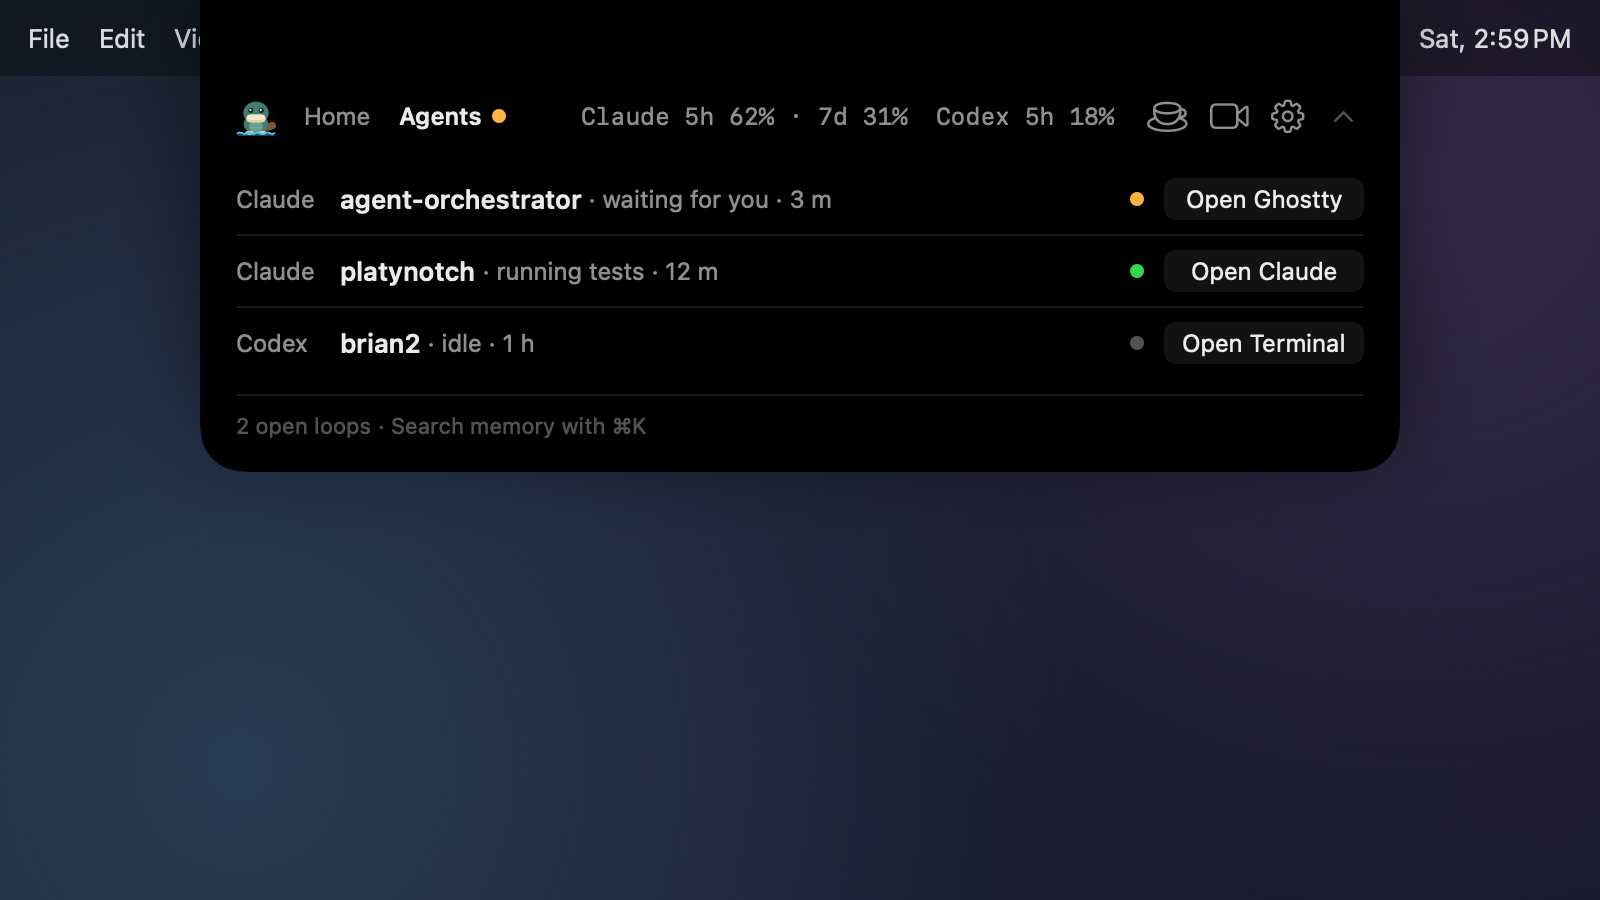
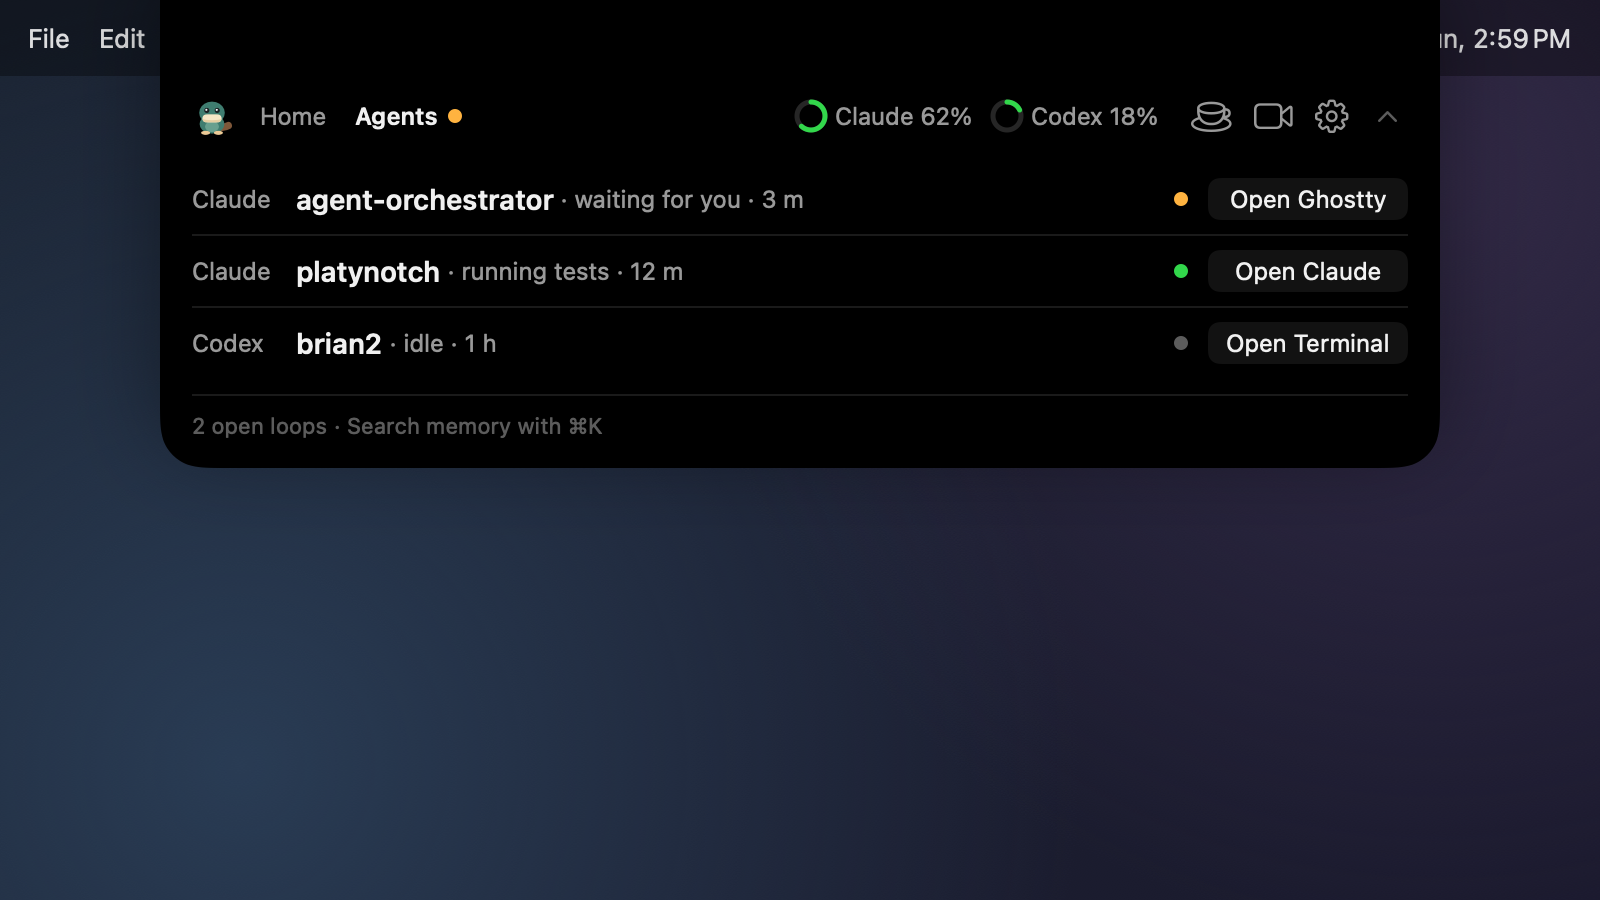
test(mac): lint the Island rules; regenerate the showcase
Colour comes from state or content (the art and sky files never use a state colour);
the sky's colours, the two big numbers and the count blue stay where they belong; no
tile grids in the panel; the dock's live circle is the one tinted well. The showcase
is the six Island scenes (wireframes A-F), 1600 x 900 at 2x; the README hero is
home-sunny.

Changed region(s): [[0.0938, 0.0, 0.9375, 0.5289], [0.375, 0.0933, 0.8438, 0.1556]]

diff --git a/apps/mac/Sources/PlatyNotchUI/Smoke/ShowcaseRenders.swift b/apps/mac/Sources/PlatyNotchUI/Smoke/ShowcaseRenders.swift
@@ -2,17 +2,17 @@ import AppKit
 import PlatyNotchKit
 import SwiftUI
 
-/// `--render-showcase <dir>`: the five Quiet Notch scenes (wireframes A–C, E), each the open
-/// panel as it really looks on a 14-inch MacBook Pro (600 pt wide, always black, the band
-/// level with the camera housing), hanging from a drawn menu bar and notch over a calm
-/// gradient wallpaper drawn here in code (no third-party image, no Apple wallpaper), 16:9 at
-/// 2x, on a dark and a light desktop: Home with music, Home with live chips, Agents, an
-/// approval above the Agents rows, and the command line. Agents show their names (renders
-/// never carry an app's icon). The same inert models as the theme renders: nothing is
-/// read, played or saved.
+/// `--render-showcase <dir>`: the six Island scenes (wireframes A–F), each the open panel as
+/// it really looks on a 14-inch MacBook Pro (always black, the band level with the camera
+/// housing), hanging from a drawn menu bar and notch over a calm gradient wallpaper drawn
+/// here in code (no third-party image, no Apple wallpaper), 16:9, forced to 2x, on a dark
+/// and a light desktop: Home on a sunny afternoon, Home on a rainy night, the Timer tool,
+/// the search, Agents with its usage rings, and the closed pill's three leads. Agents show
+/// their names (renders never carry an app's icon). The same inert models as the theme
+/// renders: nothing is read, played or saved.
 @MainActor
 enum ShowcaseRenders {
-    static let scenes = ["home-music", "home-live", "agents", "approval", "command-line"]
+    static let scenes = ["home-sunny", "home-rain-night", "tool-timer", "search", "agents", "pill"]
     /// The scenes' clock: today at 14:59, so a regeneration shows the same times.
     static var clock: Date {
         Calendar.current.date(bySettingHour: 14, minute: 59, second: 0, of: Date()) ?? Date()
@@ -35,11 +35,15 @@ enum ShowcaseRenders {
         for scheme in [ColorScheme.dark, .light] {
             for name in scenes {
                 let file = dir.appendingPathComponent("\(name)-\(scheme == .dark ? "dark" : "light").png")
-                let s = scene(name)
-                let picture = ShowcaseDesktop(scheme: scheme, time: s.time) {
-                    panel(s.content, height: s.height)
+                let data: Data?
+                if name == "pill" {
+                    data = render(ShowcaseDesktop(scheme: scheme, time: clock) { pills() }, scheme: scheme)
+                } else {
+                    let s = scene(name)
+                    data = render(ShowcaseDesktop(scheme: scheme, time: s.time) { panel(s.content, height: s.height) },
+                                  scheme: scheme)
                 }
-                guard let png = render(picture, scheme: scheme) else {
+                guard let png = data else {
                     return .failure(ThemeRenders.RenderError(message: "\(name) did not render"))
                 }
                 do { try png.write(to: file) } catch {
@@ -65,76 +69,57 @@ enum ShowcaseRenders {
         let now = clock
         var rig: HomeRenders.Rig
         var route = PanelRoute(destination: .home)
-        var header: HeaderServices?
         var command: String?
+        var time: Date = now
         var panelNow: Date? = now
         switch name {
-        case "home-music":
-            rig = homeRig(at: now, live: false)
-        case "home-live":
-            rig = homeRig(at: now, live: true)
-            // Two hours of keep awake started 40 minutes ago: "1:20" left (wireframe B).
-            header = HomeRenders.headerServices(keepAwake: true,
-                                                battery: BatteryState(percent: 64, charging: true, pluggedIn: true,
-                                                                      minutesRemaining: nil),
-                                                startedAt: now.addingTimeInterval(-40 * 60))
+        case "home-rain-night":
+            // Wireframe B: nothing playing (Resume), a rainy night, a free evening.
+            time = Calendar.current.date(bySettingHour: 21, minute: 12, second: 0, of: now) ?? now
+            rig = HomeRenders.island(playing: false, sky: HomeRenders.reading(61, day: false, 17, at: time, rainy: true),
+                                     now: time, next: [])
+        case "tool-timer":
+            // Wireframe C: the Timer tool with a tea and a laundry timer running (real clock).
+            rig = ToolRenders.runningTimers()
+            route = PanelRoute(destination: .home, tool: PanelTools.timer)
+            panelNow = nil   // the timers run on the real clock
+        case "search":
+            // Wireframe D: the full-panel search, nothing typed yet: every tool and command.
+            rig = HomeRenders.homeRest(at: now)
+            command = ""
         case "agents":
+            // Wireframe E: three sessions in three apps, the usage rings, two open loops.
             rig = agentsRig(at: now)
             route = PanelRoute(destination: .agents)
-        case "approval":
-            // The card's countdown runs on the real clock (as in the app), so the approval is
-            // 20 s old in real time; the rows' ages count from the real clock too.
-            rig = agentsRig(at: Date())
-            try? rig.store.apply(Envelope.make(.approvalAdded, bashApproval()))
-            route = PanelRoute(destination: .agents)
-            panelNow = nil
         default:
-            rig = homeRig(at: now, live: false)
-            command = "timer 10m tea"
+            // Wireframe A: Green Light playing, sunny in Bengaluru, a meeting in 45 minutes.
+            rig = HomeRenders.homeRest(at: now)
         }
-        rig.store.apply(.connected)
-        let content = HomeRenders.panel(rig, route: route, command: command, now: panelNow, header: header)
-        let measured: CGFloat = NSHostingView(rootView: content).fittingSize.height
-        return Scene(content: content, height: measured, time: now)
-    }
-
-    /// Home at `now`: Weightless playing with drawn artwork, the weather in the header, and Up
-    /// next as in wireframe A (a meeting in 45 minutes, a timed reminder, one overdue). `live`
-    /// adds wireframe B's chips: focus, a tea timer and the shelf.
-    static func homeRig(at now: Date, live: Bool) -> HomeRenders.Rig {
-        var rig = HomeRenders.builtIns(meeting: false, at: now)
         rig.mood = .idle
-        rig.today.nowPlaying.debugApply(NowPlayingInfo(bundleIdentifier: "com.apple.Music", title: "Weightless",
-                                                       artist: "Marconi Union", isPlaying: true, artwork: artwork(),
-                                                       elapsed: 161, duration: 473, rate: 0, timestamp: now), now: now)
-        let meeting = CalendarMeeting(id: "design", title: "Design review", start: now.addingTimeInterval(45 * 60),
-                                      end: now.addingTimeInterval(75 * 60))
-        rig.today.calendar.setForTesting(access: .granted, meetings: [meeting])
-        let cal = Calendar.current
-        let five = cal.date(bySettingHour: 17, minute: 0, second: 0, of: now) ?? now
-        let yesterday = cal.date(byAdding: .day, value: -1, to: now) ?? now
-        let reminders = [ReminderItem(id: "priya", title: "Call Priya", due: five, hasTime: true),
-                         ReminderItem(id: "invoice", title: "Send invoice", due: yesterday, hasTime: true)]
-        (rig.registry.widget(RemindersWidget.widgetID) as? RemindersWidget)?.reminders
-            .setForTesting(access: .granted, items: reminders)
-        (rig.registry.widget(WeatherWidget.widgetID) as? WeatherWidget)?.showForRendering(
-            place: GeoPlace(id: 1, name: "Lisbon", latitude: 38.72, longitude: -9.14),
-            weather: WeatherNow(temperatureC: 14, code: 0, isDay: true, time: now, hourly: []))
-        if live {
-            rig.today.focus.start(minutes: 25, now: now.addingTimeInterval(-(6 * 60 + 18)))
-            if let time = rig.registry.widget(TimeWidget.widgetID) as? TimeWidget {
-                _ = time.startTimer(duration: 190, label: "Tea")
-            }
-            (rig.registry.widget(ShelfWidget.widgetID) as? ShelfWidget)?.showForRendering([
-                ShelfItem(kind: .text("Release checklist"), addedAt: now),
-                ShelfItem(kind: .text("Meeting notes"), addedAt: now),
-                ShelfItem(kind: .url(URL(string: "https://example.com/report")!), addedAt: now),
-            ])
-        }
-        return rig
+        rig.store.apply(.connected)
+        let content = HomeRenders.panel(rig, route: route, command: command, now: panelNow ?? Date(),
+                                        full: command != nil)
+        let measured: CGFloat = NSHostingView(rootView: content).fittingSize.height
+        return Scene(content: content, height: measured, time: time)
     }
 
-    /// Wireframe C: three sessions in three apps, usage in the header, two open loops.
+    /// Wireframe F: the closed pill's three leads, music at the notch and the timer and
+    /// needs-you leads below it, each as it sits under the camera housing.
+    static func pills() -> some View {
+        let leads: [PillLead] = [.music, .timer(remaining: "18:42"), .needsYou(sessionID: "s1")]
+        // Below the menu bar, each pill drawn as it sits beside a 14-inch MacBook Pro's housing.
+        return VStack(spacing: 32) {
+            ForEach(Array(leads.enumerated()), id: \.offset) { _, lead in
+                PillRenders.lead(lead, width: .standard, greyNotch: false)
+                    .clipShape(Theme.panelShape(hasNotch: false))
+                    .shadow(color: .black.opacity(0.35), radius: 12, y: 6)
+            }
+        }
+        .padding(.top, HomeRenders.layout.anchor.height + 56)
+        .environment(\.agentIcons, .namesOnly)
+    }
+
+    /// Wireframe E: three sessions in three apps, usage rings in the header, two open loops.
     static func agentsRig(at now: Date) -> HomeRenders.Rig {
         let s = AgentsRenders.session
         let start = now.addingTimeInterval(-12 * 60)
@@ -149,31 +134,6 @@ enum ShowcaseRenders {
         done.updatedAt = now.addingTimeInterval(-62 * 60)
         let rig = AgentsRenders.rig([tests, ask, done])
         return rig
-    }
-
-    /// A short Bash command (wireframe C's card).
-    static func bashApproval() -> Approval {
-        let created = Date().addingTimeInterval(-20)
-        let command = "rm -rf ./build && npm test -- --grep \"panel\""
-        return Approval(id: "showcase-bash", sessionKey: "tests", agent: "claude-code", agentName: "Claude Code",
-                        project: "platynotch", tool: "Bash", summary: command,
-                        input: RawJSON(.object(["command": .string(command)])), createdAt: created,
-                        expiresAt: created.addingTimeInterval(300))
-    }
-
-    /// Original artwork drawn in code: two soft fields, nothing from a real cover.
-    static func artwork() -> Data? {
-        let size = NSSize(width: 108, height: 108)
-        let image = NSImage(size: size, flipped: false) { rect in
-            NSGradient(colors: [NSColor(srgbRed: 0.23, green: 0.29, blue: 0.39, alpha: 1),
-                                NSColor(srgbRed: 0.64, green: 0.44, blue: 0.48, alpha: 1)])?
-                .draw(in: rect, angle: -45)
-            NSColor(white: 1, alpha: 0.12).setFill()
-            NSBezierPath(ovalIn: CGRect(x: 52, y: 14, width: 64, height: 64)).fill()
-            return true
-        }
-        guard let tiff = image.tiffRepresentation, let rep = NSBitmapImageRep(data: tiff) else { return nil }
-        return rep.representation(using: .png, properties: [:])
     }
 
     /// The open panel around `content` (`height` tall), as `PanelRootView` draws it: always

diff --git a/apps/mac/Tests/PlatyNotchUITests/DesignLintTests.swift b/apps/mac/Tests/PlatyNotchUITests/DesignLintTests.swift
@@ -154,6 +154,14 @@ final class DesignLintTests: DefaultsTestCase {
         for (path, reason) in Self.tintedWellAllowlist {
             XCTAssertFalse(reason.trimmingCharacters(in: .whitespaces).isEmpty, "\(path) needs a reason")
         }
+        // Island: the dock's live circle is the one tinted well, and only at `HomeMetrics.liveFill`.
+        XCTAssertEqual(Array(Self.tintedWellAllowlist.keys), ["Dock/DockButton.swift"])
+        let dockFills = lines.filter { $0.path == "Dock/DockButton.swift" && tinted.firstMatch(
+            in: $0.text, range: NSRange(location: 0, length: ($0.text as NSString).length)) != nil }
+        XCTAssertFalse(dockFills.isEmpty, "the lint must see the dock's live fill")
+        for line in dockFills {
+            XCTAssertTrue(line.text.contains("HomeMetrics.liveFill"), "\(line.path):\(line.number): \(line.text)")
+        }
         for (i, line) in lines.enumerated() where Self.isPanel(line.path) && Self.tintedWellAllowlist[line.path] == nil {
             let ns = line.text as NSString
             guard tinted.firstMatch(in: line.text, range: NSRange(location: 0, length: ns.length)) != nil else { continue }
@@ -190,9 +198,17 @@ final class DesignLintTests: DefaultsTestCase {
         "Views/PillLeadView.swift": "the music lead's bars in the album's colour (Island spec 7)",
     ]
 
-    /// Colour only for state (spec 5.3): in panel views, no named system colours, no
-    /// `Color(red:)` or `Color(hue:)`, and `.tint` only white or a `DS`/`Theme` colour.
-    func testColourOnlyForState() throws {
+    /// Island (spec 10): the files whose colour comes from content (the album art, the sky).
+    static let contentColourFiles = ["Home/NowPlayingCard.swift", "Home/WeatherSkyView.swift", "Views/PillLeadView.swift"]
+
+    /// Colour only for state or content (spec 5.3, Island spec 10): in panel views, no named
+    /// system colours, no `Color(red:)` or `Color(hue:)`, and `.tint` only white or a
+    /// `DS`/`Theme` colour; the content files and the old exceptions, each with a reason.
+    func testColourOnlyForStateOrContent() throws {
+        for path in Self.contentColourFiles {
+            XCTAssertFalse((Self.colourAllowlist[path] ?? "").trimmingCharacters(in: .whitespaces).isEmpty,
+                           "\(path): a content colour file needs its allowlist reason")
+        }
         let named = #"(blue|indigo|purple|pink|mint|cyan|teal|yellow|orange|red|green|brown)"#
         let regex = try NSRegularExpression(pattern:
             #"Color\."# + named + #"\b|[\s(:?,]\."# + named + #"\b(?!\s*[:(=])|(?<![A-Za-z])Color\((red|hue):"#
@@ -209,6 +225,69 @@ final class DesignLintTests: DefaultsTestCase {
         }
         XCTAssertTrue(found.isEmpty, "colour that is not a state (use white ink or DS.color(tone)):\n"
                       + found.joined(separator: "\n"))
+    }
+
+    /// Content colour stays content: the art and sky files never use a state colour.
+    func testContentFilesUseNoStateColour() throws {
+        var found: [String] = []
+        for line in try Self.sourceLines() where Self.contentColourFiles.contains(line.path) {
+            if ["DS.color(", "DS.dynamicColor(", "StateTone"].contains(where: { line.text.contains($0) }) {
+                found.append("\(line.path):\(line.number): \(line.text.trimmingCharacters(in: .whitespaces))")
+            }
+        }
+        XCTAssertGreaterThan(try Self.sourceLines().filter { Self.contentColourFiles.contains($0.path) }.count, 50)
+        XCTAssertTrue(found.isEmpty, "a state colour in a content colour file:\n" + found.joined(separator: "\n"))
+    }
+
+    /// Lines (outside comments) that mention `needle`, in files `allowed` does not accept.
+    static func uses(_ needle: String, allowed: (String) -> Bool) throws -> [String] {
+        try sourceLines().filter { $0.text.contains(needle) && !allowed($0.path) }
+            .map { "\($0.path):\($0.number): \($0.text.trimmingCharacters(in: .whitespaces))" }
+    }
+
+    /// The sky's colours belong to the Today card's sky (and the renders).
+    func testSkyColoursOnlyInTheSky() throws {
+        let found = try Self.uses("WeatherSky") { path in
+            path == "Home/WeatherSkyView.swift" || path == "Home/TodayCard.swift" || path.hasPrefix("Smoke/")
+        }
+        XCTAssertTrue(found.isEmpty, "WeatherSky outside the sky:\n" + found.joined(separator: "\n"))
+    }
+
+    /// The two big numbers (Island spec 9): the temperature on Today, the Timer's time.
+    func testBigNumbersOnlyWhereAllowed() throws {
+        var found = try Self.uses("TypeScale.temperature") { $0 == "Home/TodayCard.swift" }
+        found += try Self.uses("TypeScale.timer") { $0 == "Tools/TimerTool.swift" }
+        XCTAssertTrue(found.isEmpty, "a big number outside Today's temperature and the Timer:\n"
+                      + found.joined(separator: "\n"))
+    }
+
+    /// Tile grids that may stay in the panel, each with its reason.
+    static let tileGridAllowlist: [String: String] = [
+        "Launch/Views/LaunchTile.swift": "the user's pinned sites as their own favicons",
+        "Files/FileActionsWidget.swift": "two columns of labelled action buttons",
+    ]
+
+    /// No tile grids in the panel (Island spec 1: the dock and rows replace them); the game
+    /// boards draw their own.
+    func testNoTileGrids() throws {
+        for (path, reason) in Self.tileGridAllowlist {
+            XCTAssertFalse(reason.trimmingCharacters(in: .whitespaces).isEmpty, "\(path) needs a reason")
+        }
+        var found: [String] = []
+        for needle in ["LazyVGrid", "LazyHGrid"] {
+            found += try Self.uses(needle) { path in
+                !Self.isPanel(path) || path.hasPrefix("Games/Views/") || Self.tileGridAllowlist[path] != nil
+            }
+        }
+        XCTAssertTrue(found.isEmpty, "a tile grid in the panel:\n" + found.joined(separator: "\n"))
+    }
+
+    /// The count blue is for counts: the dock's badges, the week strip's today, the search's
+    /// hits (Island spec 9).
+    func testCountBlueOnlyForCounts() throws {
+        let allowed: Set<String> = ["Dock/DockButton.swift", "Home/WeekStrip.swift", "Home/SearchView.swift"]
+        let found = try Self.uses("DS.countBlue") { allowed.contains($0) }
+        XCTAssertTrue(found.isEmpty, "DS.countBlue outside counts:\n" + found.joined(separator: "\n"))
     }
 
     /// Text styles and font sizes above 15 pt that a literal `.system(size:)` scan misses.

diff --git a/apps/mac/Tests/PlatyNotchUITests/ShowcaseRendersTests.swift b/apps/mac/Tests/PlatyNotchUITests/ShowcaseRendersTests.swift
@@ -4,14 +4,14 @@ import XCTest
 
 @MainActor
 final class ShowcaseRendersTests: XCTestCase {
-    /// Five scenes (Quiet Notch wireframes A–C, E), on a dark and a light desktop (the panel
-    /// is black on both), each 16:9 at 2x: 800 x 450 points, 1600 x 900 pixels.
-    func testShowcaseWritesTen() throws {
-        XCTAssertEqual(ShowcaseRenders.scenes, ["home-music", "home-live", "agents", "approval", "command-line"])
+    /// Six scenes (Island wireframes A–F), on a dark and a light desktop (the panel is black on
+    /// both), each 16:9 at 2x (forced, whatever the screen): 800 x 450 points, 1600 x 900 pixels.
+    func testShowcaseWritesTwelve() throws {
+        XCTAssertEqual(ShowcaseRenders.scenes, ["home-sunny", "home-rain-night", "tool-timer", "search", "agents", "pill"])
         let dir = FileManager.default.temporaryDirectory.appendingPathComponent("pn-showcase-\(getpid())")
         defer { try? FileManager.default.removeItem(at: dir) }
         switch ShowcaseRenders.write(to: dir) {
-        case .success(let n): XCTAssertEqual(n, 10)
+        case .success(let n): XCTAssertEqual(n, 12)
         case .failure(let e): return XCTFail(e.message)
         }
         let names = try FileManager.default.contentsOfDirectory(atPath: dir.path).filter { $0.hasSuffix(".png") }.sorted()

diff --git a/apps/mac/Sources/PlatyNotchUI/Smoke/ThemeRenders.swift b/apps/mac/Sources/PlatyNotchUI/Smoke/ThemeRenders.swift
@@ -966,7 +966,7 @@ enum ToolRenders {
     }
 
     /// Two timers running (wireframe C: "Tea · 3:10 left", "Laundry · 22:05 left").
-    private static func runningTimers() -> HomeRenders.Rig {
+    static func runningTimers() -> HomeRenders.Rig {
         let rig = HomeRenders.builtIns(meeting: false)
         let time = rig.registry.widget(TimeWidget.widgetID) as? TimeWidget
         _ = time?.startTimer(duration: 190, label: "Tea")

diff --git a/scripts/verify-widgets.md b/scripts/verify-widgets.md
@@ -1377,7 +1377,7 @@ block containing `- [ ] in code`.
   a quick note at once: all three are `[x]` and the note line is there (every write runs
   one after another).
 
-## Showcase renders (spec 12; Quiet Notch phase 3)
+## Showcase renders (spec 12; Island phase C)
 
 The README header and the website hero come from these renders. They are the project's
 own renders, so nothing in them is someone else's artwork: agents show their names (never
@@ -1389,16 +1389,19 @@ Regenerate them from `apps/mac` with:
 swift build --scratch-path /private/tmp/claude-501/pn-build-shared && PLATYNOTCH_HOME=$(mktemp -d) /private/tmp/claude-501/pn-build-shared/debug/PlatyNotch --render-showcase ../../docs/assets/showcase
 ```
 
-This prints `SHOWCASE OK renders=10`. It writes ten PNGs: five scenes, each on a dark and a
-light desktop (the panel itself is black on both):
+This prints `SHOWCASE OK renders=12`. It writes twelve PNGs: six scenes (Island wireframes
+A–F), each on a dark and a light desktop (the panel itself is black on both):
 
-- `home-music`: Home with a track playing and Up next (wireframe A)
-- `home-live`: Home with focus, a tea timer and the shelf as chips, charging and keep
-  awake in the header (wireframe B)
-- `agents`: three sessions in three apps, usage in the header, the open-loops line
-  (wireframe C)
-- `approval`: a Bash approval in the v0.2 card above the Agents rows (wireframe C)
-- `command-line`: `timer 10m tea` typed, its suggestion below (wireframe E)
+- `home-sunny`: Home on a sunny afternoon: Green Light playing with its art glow, the
+  Today card's sky over Bengaluru and a meeting in 45 minutes, the dock (wireframe A)
+- `home-rain-night`: Home on a rainy night: Resume and suggestions, rain over the sky,
+  the week strip (wireframe B)
+- `tool-timer`: the Timer tool with a tea and a laundry timer running (wireframe C)
+- `search`: the full-panel search with nothing typed: commands and tools (wireframe D)
+- `agents`: three sessions in three apps, the usage rings in the header, the open-loops
+  line (wireframe E)
+- `pill`: the closed pill's three leads: music, a timer, a session needing you
+  (wireframe F)
 
 Each PNG is 16:9 (800 × 450 points, forced to 2×: 1600 × 900 pixels). It shows the open
 panel, cropped to its content, hanging from a drawn menu bar and camera notch over a
@@ -1407,7 +1410,7 @@ gradient wallpaper drawn in code, so it uses no photograph and no Apple wallpape
 The command uses inert models: it reads no player, calendar or agent and saves nothing. It
 opens its windows off screen.
 
-The README header is `docs/assets/showcase/agents-dark.png`.
+The README header is `docs/assets/showcase/home-sunny-dark.png`.
 
 The 20-second screen recording is scripted in `docs/showcase/recording-script.md`.
 

diff --git a/README.md b/README.md
@@ -1,8 +1,8 @@
 # PlatyNotch
 
 <p align="center">
-  <img src="docs/assets/showcase/agents-dark.png" width="720"
-       alt="PlatyNotch open from a MacBook notch, below the menu bar: the black Agents view lists three sessions, one per line, each with its project, status, age, a state dot and a button naming the app it opens (Open Ghostty, Open Claude, Open Terminal), with Claude and Codex usage as small numbers in the header and a line about two open loops.">
+  <img src="docs/assets/showcase/home-sunny-dark.png" width="720"
+       alt="PlatyNotch open from a MacBook notch, below the menu bar: the black panel's Home shows a Now Playing card with album art and a warm glow beside a Today card painted as a sunny sky with 22 degrees in Bengaluru and a design review in 45 minutes, and below them a dock of eight round tools: Timer, Note, Remind with a badge of 3, Clipboard, Shelf, Memory, Games and Search.">
 </p>
 
 PlatyNotch is an open-source MacBook notch app. It combines an agent hub
